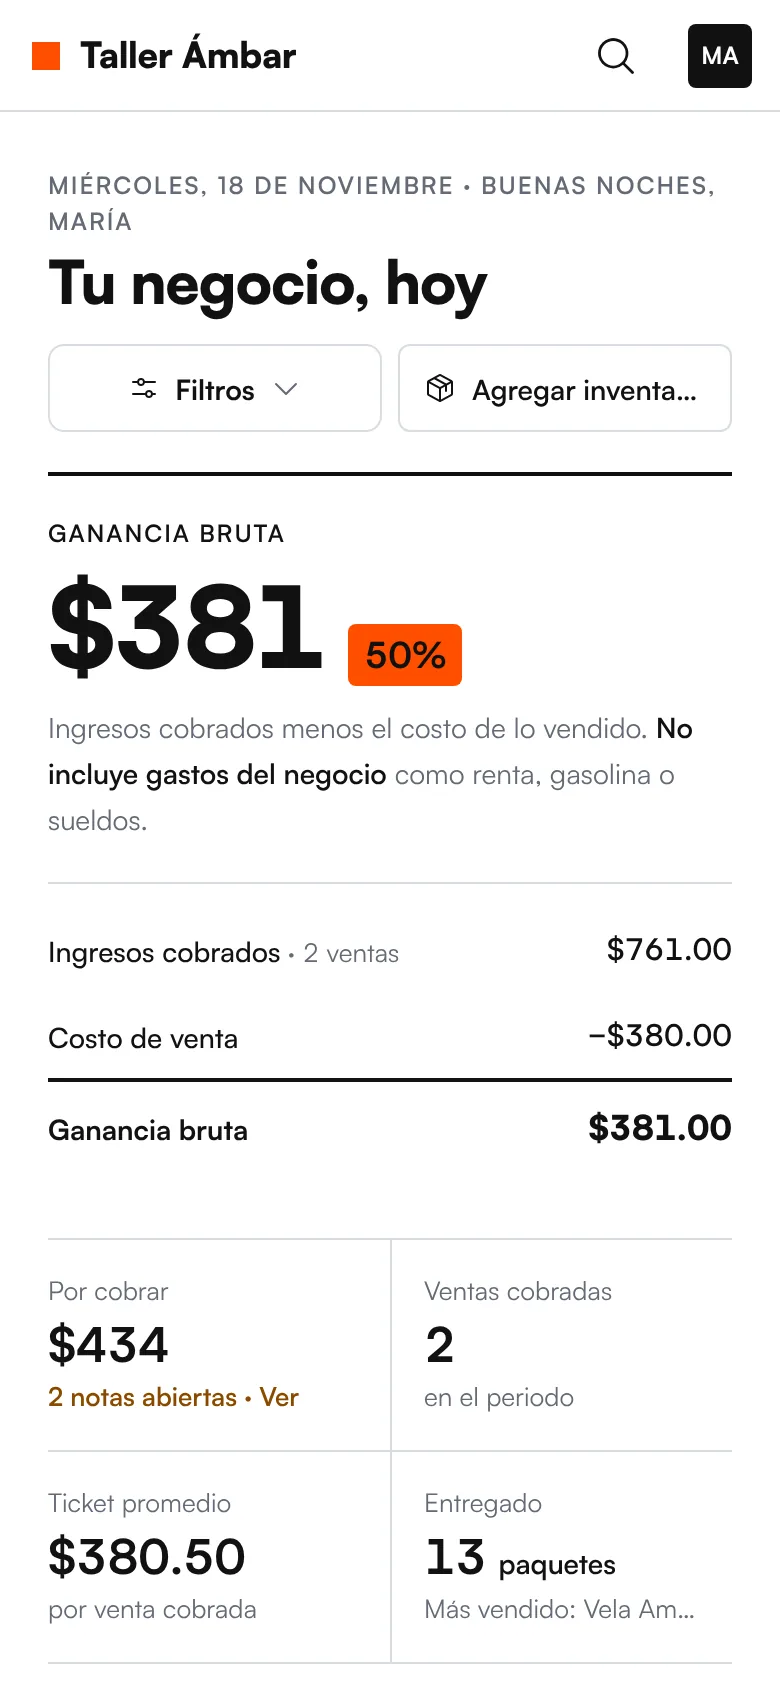
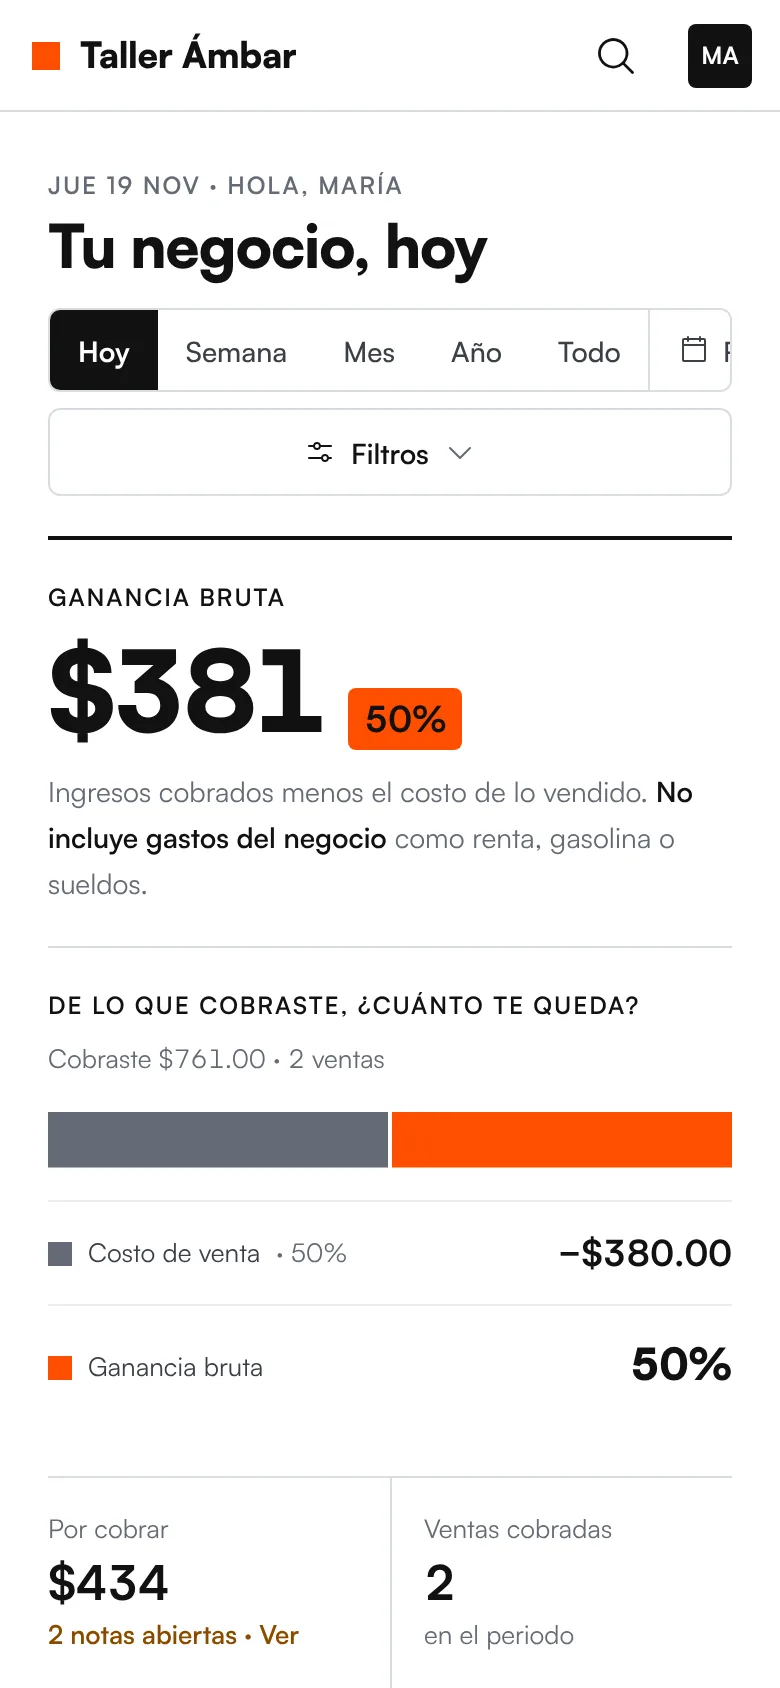
feat(landing): capturas actualizadas del producto
- Inicio móvil y escritorio con periodo, barra de resultado e indicadores actuales
- Capturas tomadas como cuenta nueva (inventario apagado)
- FAQ: el inventario ahora es opcional

Claude-Session: https://claude.ai/code/session_017tV5JcEwqh25Dt5UsNPndx

diff --git a/src/routes/index.tsx b/src/routes/index.tsx
@@ -48,9 +48,9 @@ const FEATURES = [
     title: "Sabe cuánto te queda.",
     copy: "Cobrado, costo y ganancia del día, sin hacer cuentas.",
     img: "/landing/dash-desktop.webp",
-    alt: "Inicio de Artisan con la ganancia bruta del día y su desglose",
-    w: 2704,
-    h: 918,
+    alt: "Inicio de Artisan: ganancia bruta del día, cuánto te queda de lo cobrado y lo que falta por cobrar",
+    w: 2880,
+    h: 1022,
     wide: true,
   },
   {
@@ -82,7 +82,7 @@ const FAQS = [
   },
   {
     q: "¿Tengo que capturar todo mi inventario?",
-    a: "No. Empieza con tus productos más vendidos y agrega el resto cuando quieras.",
+    a: "No. El inventario es opcional: puedes vender sin contar existencias y activarlo cuando quieras.",
   },
   {
     q: "¿Hay que descargar algo?",
